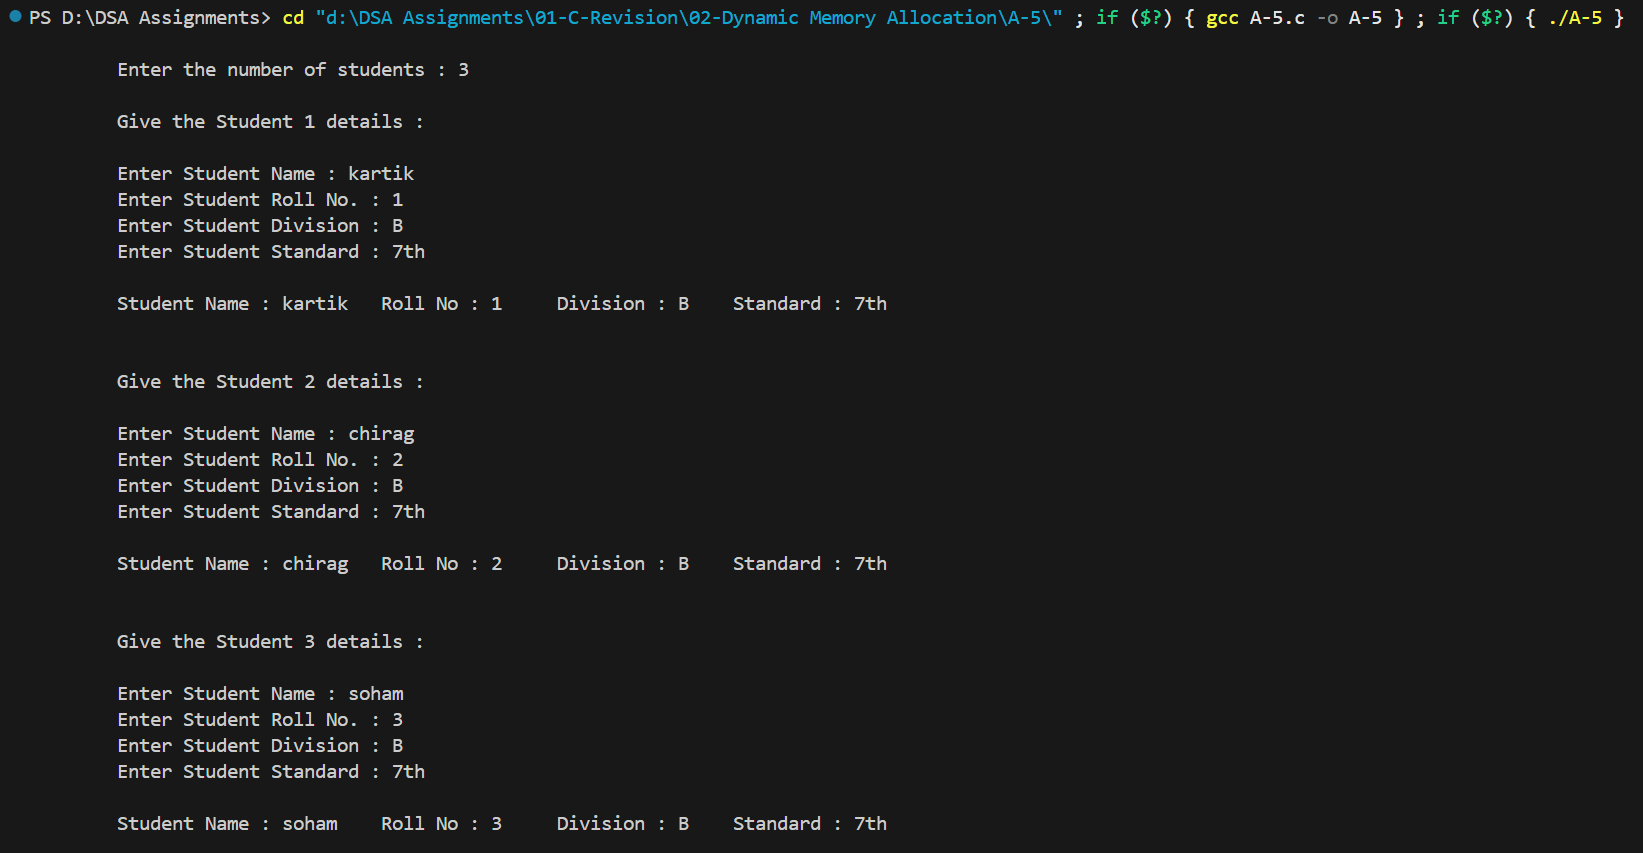
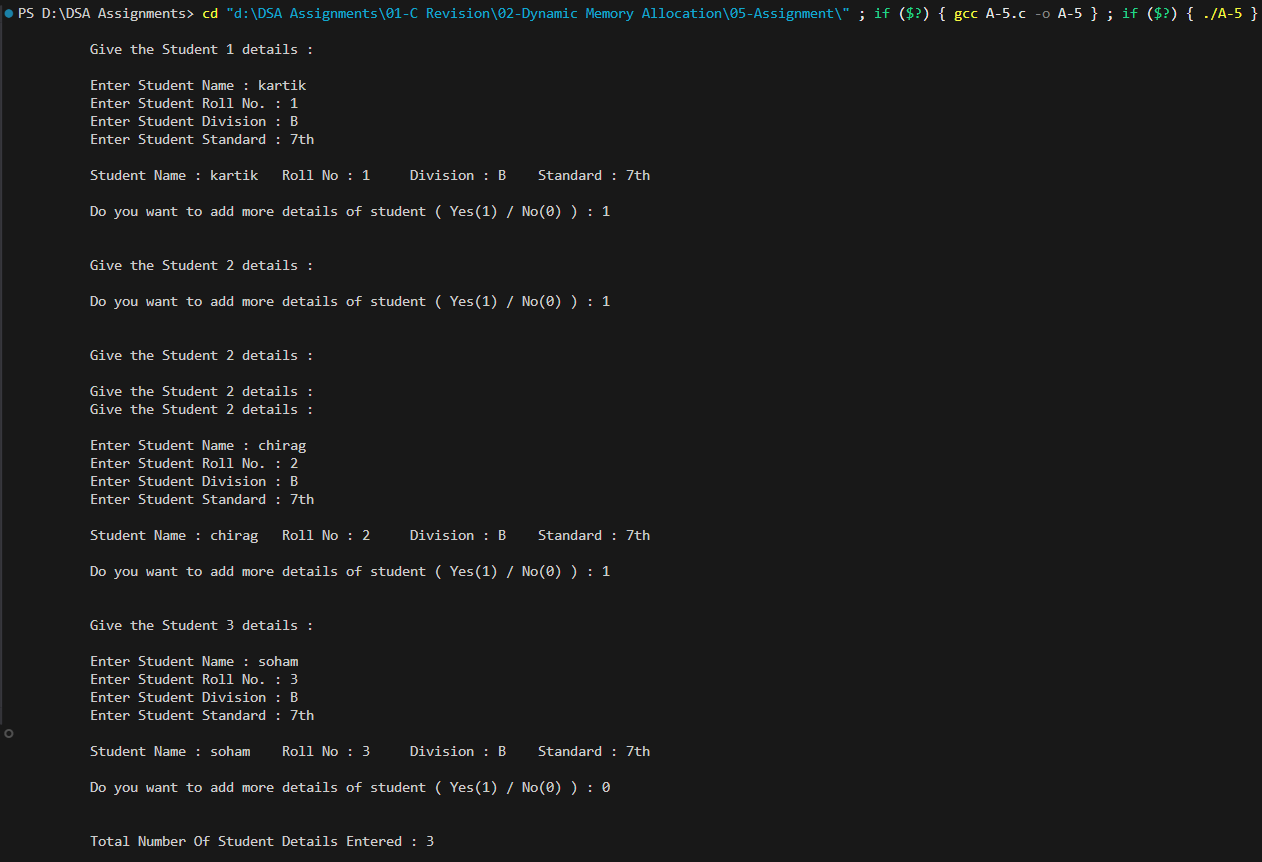
Dynamic Memory Allocation Assignment No. 5

diff --git a/01-C Revision/02-Dynamic Memory Allocation/05-Assignment/A-5.c b/01-C Revision/02-Dynamic Memory Allocation/05-Assignment/A-5.c
@@ -24,43 +24,47 @@ typedef struct Student
 
 int main() 
 {
-    int n;
-    printf("\n\tEnter the number of students : ");
-    scanf("%d", &n);    
+    int i = 0,ch;
     
-    for (int i = 0; i < n; i++)
-    {
-        Student *p = NULL;
-        p = malloc(sizeof(Student));
-        if (p == NULL) {
+    while (ch) {
+        Student *arr = NULL;
+        arr = malloc(sizeof(Student));
+        if (arr == NULL) {
             printf("\n\t Memory Allocation Failed!");
             exit(1);
         }
-        
-        printf("\n\tGive the Student %d details : \n",i+1);
-
-        printf("\n\tEnter Student Name : ");
-        getchar();
-        fgets(p -> name,20,stdin);
-        p -> name[strcspn(p -> name,"\n")] = '\0';
+               
+        printf("\n\t Give the Student %d details : \n",i+1);
+        printf("\n\t Enter Student Name : ");
+        if (i > 0)  getchar();
+        fgets(arr -> name,20,stdin);
+        arr -> name[strcspn(arr -> name,"\n")] = '\0';
     
-        printf("\tEnter Student Roll No. : ");
-        scanf("%d",&(p -> roll_no));
+        printf("\t Enter Student Roll No. : ");
+        scanf("%d",&(arr -> roll_no));
         
-        printf("\tEnter Student Division : ");
-        scanf("%s",p -> div);
+        printf("\t Enter Student Division : ");
+        scanf("%s",arr -> div);
 
-        printf("\tEnter Student Standard : ");
-        scanf("%s",p -> std);
+        printf("\t Enter Student Standard : ");
+        scanf("%s",arr -> std);
 
-        printf("\n\tStudent Name : %s", p -> name);
-        printf("\tRoll No : %d", p -> roll_no);
-        printf("\tDivision : %s", p -> div);
-        printf("\tStandard : %s\n\n", p -> std);
+        printf("\n\t Student Name : %s", arr -> name);
+        printf("\t Roll No : %d", arr -> roll_no);
+        printf("\t Division : %s", arr -> div);
+        printf("\t Standard : %s\n", arr -> std);
 
-        free(p);
-        p = NULL;
+        printf("\n\t Do you want to add more details of student ( Yes(1) / No(0) ) : ");
+        scanf("%d",&ch); 
+        printf("\n");
+
+        i++;
+
+        free(arr);
+        arr = NULL;
     }
+
+    printf("\n\t Total Number Of Student Details Entered : %d\n\n",i);
     
     return 0;
 }
@@ -68,8 +72,6 @@ int main()
 
 /*
     Output -> 
-                Enter the number of students : 3
-
                 Give the Student 1 details : 
 
                 Enter Student Name : kartik
@@ -78,6 +80,8 @@ int main()
                 Enter Student Standard : 7th
 
                 Student Name : kartik   Roll No : 1     Division : B    Standard : 7th
+
+                Do you want to add more details of student ( Yes(1) / No(0) ) : 1
 
 
                 Give the Student 2 details : 
@@ -89,13 +93,20 @@ int main()
 
                 Student Name : chirag   Roll No : 2     Division : B    Standard : 7th
 
+                Do you want to add more details of student ( Yes(1) / No(0) ) : 1
 
-                Give the Student 3 details :
+
+                Give the Student 3 details : 
 
                 Enter Student Name : soham
                 Enter Student Roll No. : 3
                 Enter Student Division : B
                 Enter Student Standard : 7th
 
-                Student Name : soham    Roll No : 3     Division : B    Standard : 7th                               
+                Student Name : soham    Roll No : 3     Division : B    Standard : 7th
+
+                Do you want to add more details of student ( Yes(1) / No(0) ) : 0
+
+
+                Total Number Of Student Details Entered : 3     
 */
